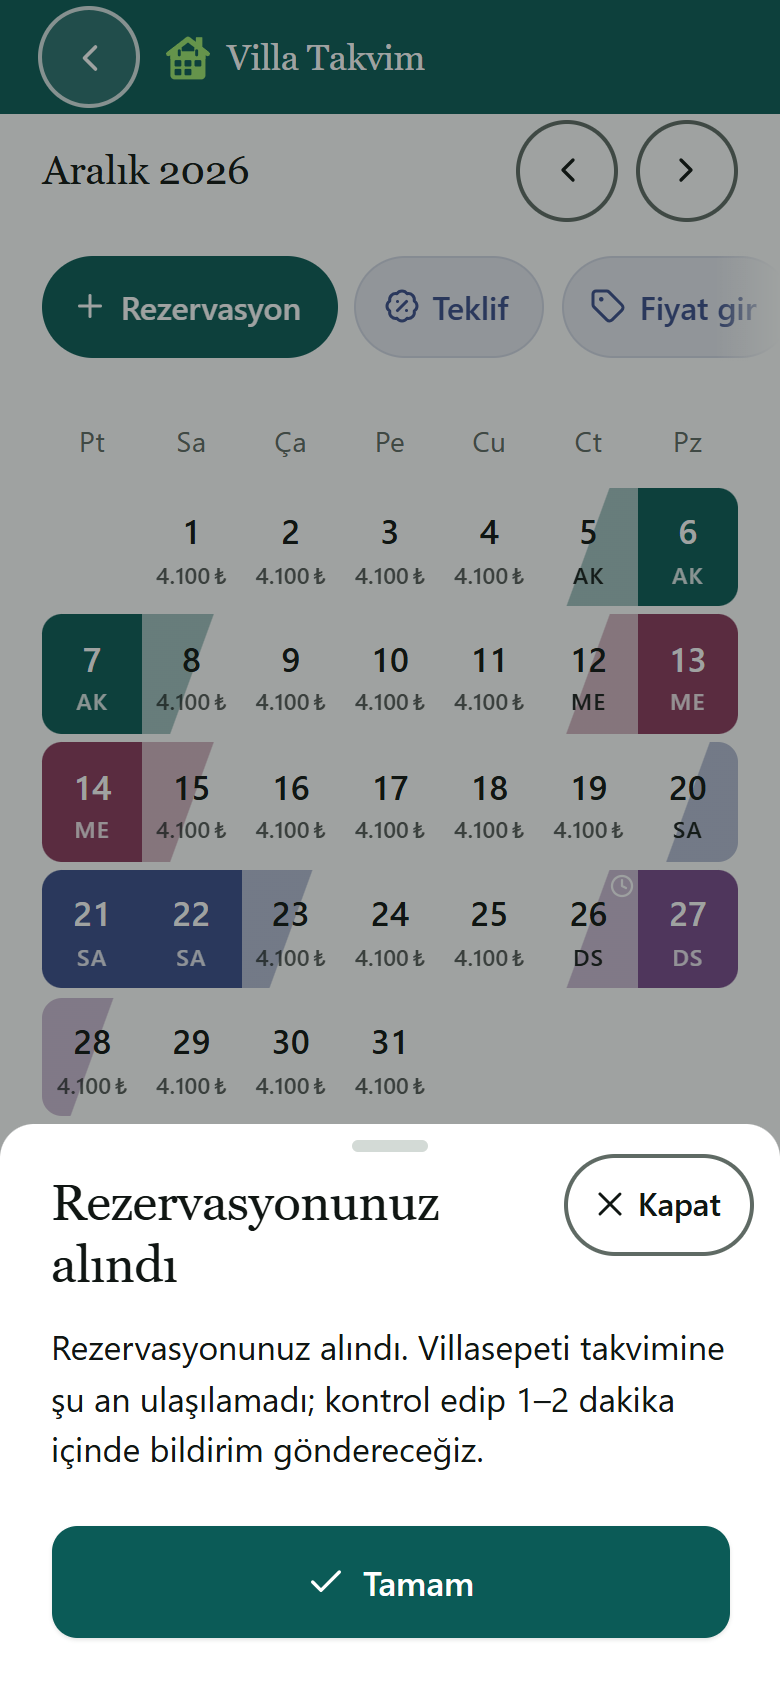
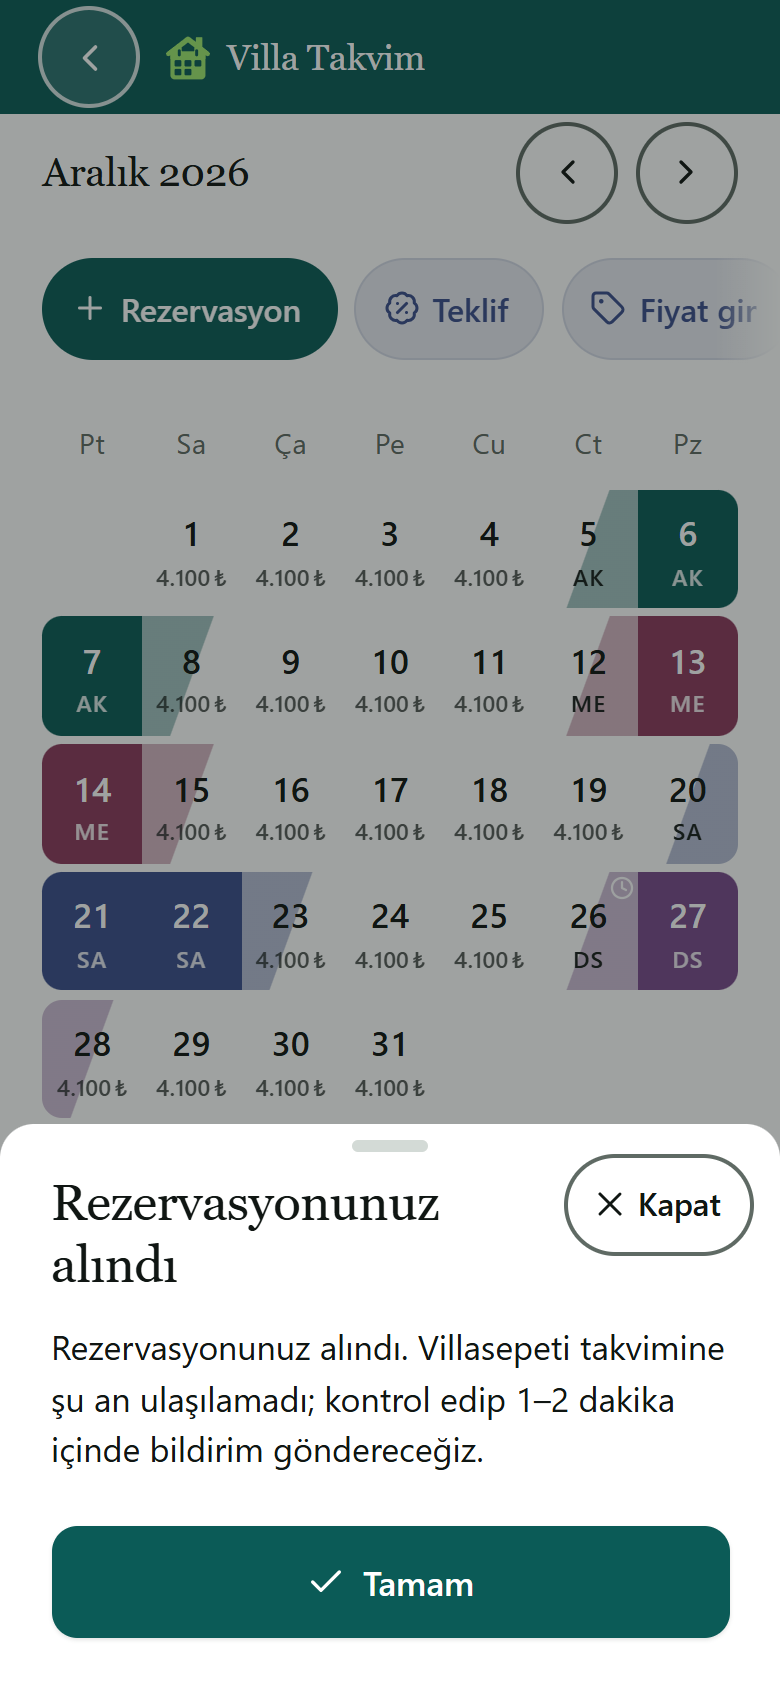
Görev 32.7: çakışma alarmı (çözülmeden susmaz)
- Villalarım'ın en üstünde kapatılamayan kırmızı kart: "Çift satış riski: Villa Salta 17–21 Kasım, hem burada (Ahmet Yılmaz)
  hem Airbnb'de dolu." [Şimdi çöz]
- Çözme ekranı: bizdeki (misafir, tarih, telefon, WhatsApp) ve dışarıdaki (site, tarih) yan yana;
  "Aynı misafir, aynı rezervasyon" (cakisma_coz ayni_rez), "Sorunu çözdüm" (nasıl çözüldüğü zorunlu: başka villa,
  dışarıdaki iptal, bizdeki iptal, diğer + not), "Başka boş villa bul"; bakıcıda yalnız bilgi ve başka villa
- Takvimde çakışan rezervasyon kırmızı çerçeveli, giriş gününde uyarı ikonu; rezervasyon kartında uyarı ikonu
- Ölçüm: cakisma_acildi, cakisma_cozuldu {nasil} (misafir ve tarih yok)
- Bildirimden ?cakisma=… ile çözme ekranı açılır; bildirimleri sunucu gönderir (takvim-esitle zamanlayıcısı)

diff --git a/www/index.html b/www/index.html
@@ -1555,6 +1555,27 @@
   .lj-disK{background:repeating-linear-gradient(135deg,rgba(95,106,100,.18) 0 2px,#F7F9F8 2px 5px)}
   .dtEt{display:inline-flex; align-items:center; margin-left:.375rem; padding:.0625rem .5rem; border-radius:99px; background:var(--soft);
     color:var(--muted); font-size:.8235rem; line-height:1.4; vertical-align:middle; white-space:nowrap}
+  /* 32.7 çakışma alarmı */
+  .cakismaKart{background:#FBEFF2; border:var(--cerceve-kalinlik) solid var(--uyari); border-radius:var(--kose); padding:1rem; margin:0 0 1rem; color:var(--uyari)}
+  .cakismaKart .ckUst{display:flex; gap:.625rem; align-items:flex-start; line-height:1.45; font-size:1.0625rem}
+  .cakismaKart .ckUst svg{flex:none; margin-top:.125rem}
+  .cakismaKart .big{margin-top:.75rem; background:var(--uyari); border-color:var(--uyari)}
+  .cakismaKart .big:active{background:#7E2139}
+  .ckIki{display:grid; grid-template-columns:repeat(auto-fit,minmax(9rem,1fr)); gap:.75rem; margin:1rem 0}
+  .ckKutu{border:var(--cerceve-kalinlik) solid var(--line); border-radius:var(--kose); padding:.875rem; line-height:1.45}
+  .ckKutu .ckLab{font-size:.875rem; color:var(--muted); margin-bottom:.25rem}
+  .ckKutu .ckAd{font-size:1.0625rem}
+  .ckKutu .big{margin-top:.625rem; min-height:3rem}
+  .ckSecenek{display:grid; gap:.5rem; margin:.75rem 0}
+  .ckSecenek button{display:flex; align-items:center; gap:.75rem; width:100%; min-height:3.25rem; padding:.5rem 1rem; text-align:left;
+    border:var(--cerceve-kalinlik) solid var(--cerceve); border-radius:var(--kose); background:#fff; font-size:1rem}
+  .ckSecenek button.on{border-color:var(--ok); background:var(--basili-zemin)}
+  .ckSecenek .ckNokta{flex:none; width:1.25rem; height:1.25rem; border-radius:99px; border:2px solid var(--cerceve)}
+  .ckSecenek button.on .ckNokta{border:6px solid var(--ok)}
+  .cell.cakisma{box-shadow:inset 0 0 0 3px var(--uyari)}
+  .cell .rzUyari{position:absolute; top:1px; left:2px; display:flex; color:#fff; pointer-events:none}
+  .rezKart.cakisma{border-color:var(--uyari) !important; box-shadow:inset 0 0 0 1px var(--uyari)}
+  .rkUyari{display:inline-flex; vertical-align:middle; margin-left:.375rem; color:var(--uyari)}
   /* 32.6 kayıtta anlık kontrol listesi */
   .kontrolListe{display:grid; gap:.25rem; margin:1rem 0 .5rem}
   .kontrolSatir{display:flex; align-items:center; gap:.75rem; min-height:3.25rem; padding:.25rem 0; border-bottom:1px solid var(--line); font-size:1.0625rem}
@@ -1863,6 +1884,8 @@
 
   <!-- ANA EKRAN -->
   <div id="ana" class="sekmeEkran">
+    <!-- 32.7: çift satış riski (kapatılamaz; çözülünce kalkar) -->
+    <div id="cakismaKartlar" class="hide"></div>
     <!-- 18.15: başlığın sağında dolu / boş etiketleri (dar ekranda alta iner); altında yalnız "+ Villa ekle" -->
     <div class="anaBas"><h1>Villalarım</h1><div class="sm muted" id="ozet"></div></div>
     <div class="hapSira hide" id="anaHap" role="toolbar"></div>
@@ -2895,7 +2918,7 @@
   function bildirimYolu(yol){
     var q; try{ q=new URL(yol,location.href).searchParams; }catch(e){ return; }
     var vid=q.get("villa"), gn=q.get("gun"), ck=q.get("cakisma");
-    if(ck && window.cakismaCozEkran){ var c=(DT.cakismalar||[]).filter(function(x){ return x.id===ck; })[0]; if(c){ cakismaCozEkran(c); return; } }
+    if(ck){ var c=(DT.cakismalar||[]).filter(function(x){ return x.id===ck; })[0]; if(c){ cakismaCozEkran(c); return; } }
     var v=vid && S.villalar.filter(function(x){ return x.id===vid; })[0]; if(!v) return;
     ac(v.id);
     if(q.get("ayar")==="takvim" && sahipMi()){ dtEkran(v); return; }
@@ -2908,6 +2931,78 @@
     if(e.data && e.data.tur==="git" && e.data.yol){ if(S.yukleniyor) S.bekleyenYol=e.data.yol; else bildirimYolu(e.data.yol); }
   });
   if(/[?&](villa|cakisma)=/.test(location.search)) S.bekleyenYol=location.search;
+
+  // ---- 32.7 çakışma alarmı: çözülmeden susmaz ----
+  function dtCakisanRez(id){ return (DT.cakismalar||[]).some(function(c){ return c.rezervasyon_id===id && c.durum==="acik"; }); }
+  function cakismaRez(c){
+    var v=S.villalar.filter(function(x){ return x.id===c.villa_id; })[0];
+    return { v:v, r:v && (v.rez||[]).filter(function(x){ return x.id===c.rezervasyon_id; })[0] };
+  }
+  // ilk kez görülen açık çakışma: ölçüm (misafir / tarih yok)
+  var CK_GOR="vt-cakisma-gor";
+  function cakismaKartCiz(){
+    var el=document.getElementById("cakismaKartlar"); if(!el) return;
+    var l=(DT.cakismalar||[]).filter(function(c){ return c.durum==="acik" && cakismaRez(c).v; });
+    var gor={}; try{ gor=JSON.parse(store.get(CK_GOR)||"{}")||{}; }catch(e){ gor={}; }
+    l.forEach(function(c){ if(!gor[c.id]){ gor[c.id]=1; olc("cakisma_acildi"); } });
+    store.set(CK_GOR,JSON.stringify(gor));
+    el.classList.toggle("hide",!l.length);
+    el.innerHTML=l.map(function(c){
+      var x=cakismaRez(c), r=x.r, tarih=aralikYazi({b:r?r.start:c.baslangic, s:r?r.end:c.bitis});
+      return '<div class="cakismaKart" role="alert"><div class="ckUst">'+ikon("uyari-ucgen",{boy:22})+"<span>"+
+        esc(cev("Çift satış riski: "+(x.v.ad||"Villa")+" "+tarih+", hem burada"+(r?" ("+r.guest+")":"")+" hem "+ekDe(c.takvim_ad||cev("başka bir site"))+" dolu."))+"</span></div>"+
+        '<button class="big" data-ik="tik-daire" data-ck="'+esc(c.id)+'">'+esc(cev("Şimdi çöz"))+"</button></div>";
+    }).join("");
+  }
+  document.getElementById("cakismaKartlar").addEventListener("click",function(e){
+    var b=e.target.closest("[data-ck]"); if(!b) return;
+    var c=(DT.cakismalar||[]).filter(function(x){ return x.id===b.dataset.ck; })[0]; if(c) cakismaCozEkran(c);
+  });
+  var CK_NASIL=[["baska_villa","Misafiri başka villaya aldım"],["dis_iptal","Dışarıdaki satışı iptal ettirdim"],["biz_iptal","Bizdekini iptal ettim"],["diger","Diğer"]];
+  function cakismaCozEkran(c){
+    var x=cakismaRez(c), v=x.v, r=x.r; if(!v) return;
+    var sahip0=!!(v.rol==="sahip" || !S.bulut), tel=r && telNormal(r.phone);
+    var bizdeki='<div class="ckKutu"><div class="ckLab">'+esc(cev("Bizdeki"))+'</div><div class="ckAd">'+esc(r?r.guest:cev("Rezervasyon"))+"</div>"+
+      '<div class="sm">'+esc(aralikYazi({b:r?r.start:c.baslangic, s:r?r.end:c.bitis}))+"</div>"+(r && r.phone?'<div class="sm muted">'+esc(r.phone)+"</div>":"")+
+      (tel?'<a class="big renkli is-wa" data-ik="mesaj" href="https://wa.me/'+tel+'" target="_blank" rel="noopener">'+esc(cev("WhatsApp"))+"</a>":"")+"</div>";
+    var disari='<div class="ckKutu"><div class="ckLab">'+esc(cev("Dışarıdaki"))+'</div><div class="ckAd">'+esc(c.takvim_ad||cev("Başka site"))+"</div>"+
+      '<div class="sm">'+esc(aralikYazi({b:c.baslangic, s:c.bitis}))+"</div></div>";
+    perde('<div class="head"><h2>'+esc(cev("Çift satış riski"))+"</h2>"+kapatBtn()+"</div>"+
+      '<div class="sm muted" style="margin:.5rem 0 0;line-height:1.45">'+esc(cev(v.ad+": aynı günler hem burada hem "+ekDe(c.takvim_ad||cev("başka bir site"))+" dolu."))+"</div>"+
+      '<div class="ckIki">'+bizdeki+disari+"</div>"+
+      (sahip0 ? '<button class="big" data-ik="baglanti" id="ckAyni">'+esc(cev("Aynı misafir, aynı rezervasyon"))+"</button>"+
+        '<button class="big renkli is-rez" data-ik="tik-daire" id="ckCozdum" style="margin-top:.5rem">'+esc(cev("Sorunu çözdüm"))+"</button>"+
+        '<div id="ckNasil" class="hide"><div class="eyebrow" style="margin:1.25rem 0 .25rem">'+esc(cev("Nasıl çözüldü?"))+'</div><div class="ckSecenek" id="ckSecenek">'+
+          CK_NASIL.map(function(n){ return '<button type="button" data-n="'+n[0]+'"><span class="ckNokta"></span><span>'+esc(cev(n[1]))+"</span></button>"; }).join("")+"</div>"+
+          '<div class="hide" id="ckNotAlan">'+alan("ck-not",esc(cev("Kısaca nasıl çözüldü?")),"","text","")+"</div>"+
+          '<button class="big" data-ik="tik" id="ckKaydet">'+esc(cev("Çözüldü olarak kaydet"))+"</button></div>"
+        : '<div class="sm muted" style="margin:.5rem 0;line-height:1.45">'+esc(cev("Çözmek için villa sahibine haber verin."))+"</div>")+
+      '<button class="big renkli is-rez" data-ik="arama" id="ckBaska" style="margin-top:.5rem">'+esc(cev("Başka boş villa bul"))+"</button>");
+    var bitti=function(nasil){
+      DT.cakismalar=(DT.cakismalar||[]).filter(function(x){ return x.id!==c.id; });
+      if(r && !dtCakisanRez(r.id) && r.disKontrol==="cakisma") r.disKontrol=undefined;
+      olc("cakisma_cozuldu",{nasil:nasil}); kapat(); tamam(cev("Çakışma çözüldü"));
+      if(!document.getElementById("ana").classList.contains("hide")) cizAna(); else if(aktif()) ciz();
+    };
+    document.getElementById("ckBaska").onclick=function(){
+      kapat(true); MA.bas=r?r.start:c.baslangic; MA.bit=r?r.end:c.bitis; MA.kisi=r?(sayi(r.people)||0):0; MA.son={bas:MA.bas, bit:MA.bit, kisi:MA.kisi}; musaitSonucAc();
+    };
+    if(!sahip0) return;
+    document.getElementById("ckAyni").onclick=function(){ kaydetIs(this,function(){ return VT.dt.cakismaCoz(c.id,"ayni_rez").then(function(){ bitti("ayni_rez"); }); }); };
+    var secili=null;
+    document.getElementById("ckCozdum").onclick=function(){ var n=document.getElementById("ckNasil"); n.classList.remove("hide"); kademeOyna(Array.prototype.slice.call(n.children)); try{ n.scrollIntoView({block:"nearest",behavior:azHareket()?"auto":"smooth"}); }catch(e){} };
+    document.getElementById("ckSecenek").onclick=function(e){
+      var b=e.target.closest("[data-n]"); if(!b) return; secili=b.dataset.n;
+      Array.prototype.forEach.call(this.children,function(x){ x.classList.toggle("on",x===b); x.setAttribute("aria-pressed",String(x===b)); });
+      document.getElementById("ckNotAlan").classList.toggle("hide",secili!=="diger"); titret("secim");
+    };
+    document.getElementById("ckKaydet").onclick=function(){
+      if(!secili){ titret("eksik"); var s=document.getElementById("ckSecenek"); if(s.animate && !azHareket()) s.animate([{transform:"translateX(0)"},{transform:"translateX(-4px)"},{transform:"translateX(4px)"},{transform:"translateX(0)"}],{duration:hiz("titreme")}); return; }
+      var not=secili==="diger" ? document.getElementById("ck-not").value.trim() : cev(CK_NASIL.filter(function(n){ return n[0]===secili; })[0][1]);
+      if(secili==="diger" && not.length<3){ alanHata(document.getElementById("ck-not")); return; }
+      kaydetIs(this,function(){ return VT.dt.cakismaCoz(c.id,"cozuldu",not).then(function(){ bitti(secili); }); });
+    };
+  }
 
   // ---- 32.3 Takvim bağlantıları ekranı ----
   function dtEkran(v){
@@ -3815,6 +3910,7 @@
     if(!S.villalar.length) h=bosHal("ev","Henüz villa eklemediniz.",'<button class="big" data-ik="arti" id="karsilamaEkle">'+esc(cev("Villa ekle"))+"</button>",
       "Villanızı ekleyin, gecelik fiyatları girin, rezervasyonları takvime işleyin.",
       (S.bulut && window.VT && VT.girisli && VT.girisli())?'<button class="bakiciLink" id="karsilamaDavet">'+esc(cev("Bakıcı mısınız? Davet koduyla katılın"))+"</button>":"");
+    cakismaKartCiz();
     if(S.villalar.length && !gorunen) h='<div class="sm muted" style="padding:.5rem 0">'+esc(cev(suz==="dolu"?"Bugün dolu villa yok.":"Bugün boş villa yok."))+"</div>";
     document.getElementById("villalar").innerHTML=h;
     // 18.15: başlığın altında yalnız "+ Villa ekle" (Takvim ve Teklifler hapları kalktı)
@@ -5365,8 +5461,9 @@
     var tarihler=(basladi?'<span class="tarihIk">'+ikon("giris",{boy:15,sinif:"gir"})+esc(kisa(r.start))+"</span> "
                          :'<span class="tarihIk">'+ikon("giris",{boy:15,sinif:"gir"})+esc(kisa(r.start))+'<span class="fiil">'+esc(cev("girecek"))+"</span></span> ")+
                  '<span class="tarihIk">'+ikon("cikis",{boy:15,sinif:"cik"})+esc(kisa(r.end))+'<span class="fiil">'+esc(cev("çıkacak"))+"</span></span>";
-    return '<button class="row rezKart'+(yeniOlabilir?yeniCls(r.id):"")+'" data-id="'+r.id+'">'+harfDaire(r)+
+    return '<button class="row rezKart'+(dtCakisanRez(r.id)?" cakisma":"")+(yeniOlabilir?yeniCls(r.id):"")+'" data-id="'+r.id+'">'+harfDaire(r)+
       '<span class="rkMetin"><span class="rkAd">'+esc(r.guest)+(dtRezKaynak(v,r)?'<span class="dtEt">'+esc(dtRezKaynak(v,r))+"</span>":"")+
+        (dtCakisanRez(r.id)?'<span class="rkUyari" title="'+esc(cev("Çift satış riski"))+'">'+ikon("uyari-ucgen",{boy:15})+"</span>":"")+
         (r.disKontrol==="bekliyor"?'<span class="rkSaat" title="'+esc(cev("Diğer siteler kontrol ediliyor"))+'">'+ikon("saat",{boy:15})+"</span>":"")+'</span><span class="rkAlt">'+tarihler+
       (tutarYok?' <span class="eksikYazi">'+esc(cev("· tutar girilmedi"))+"</span>":"")+
       "</span></span>"+
@@ -5488,7 +5585,10 @@
       var st="background:"+bg+";border-radius:"+(rl?"10px":"0")+" "+(rr?"10px":"0")+" "+(rr?"10px":"0")+" "+(rl?"10px":"0");
       var fi=paraGorur()?v.fiyatlar[k]:0;
       // dolu günde (akşamı dolu) fiyat yerine misafirin baş harfleri
-      var saatIk = (ak && ak.start===k && ak.disKontrol==="bekliyor") ? '<span class="rzSaat" aria-label="'+esc(cev("Diğer siteler kontrol ediliyor"))+'">'+ikon("saat",{boy:12,kalinlik:2.25})+"</span>" : "";
+      var ckR=(ak && dtCakisanRez(ak.id)) || (sa && dtCakisanRez(sa.id));
+      if(ckR) cls+=" cakisma";
+      var ckIk = (ak && ak.start===k && dtCakisanRez(ak.id)) ? '<span class="rzUyari">'+ikon("uyari-ucgen",{boy:12,kalinlik:2.25})+"</span>" : "";
+      var saatIk = ckIk+((ak && ak.start===k && ak.disKontrol==="bekliyor") ? '<span class="rzSaat" aria-label="'+esc(cev("Diğer siteler kontrol ediliyor"))+'">'+ikon("saat",{boy:12,kalinlik:2.25})+"</span>" : "");
       var etiket = saatIk+(ak ? '<span class="fy bh">'+esc(basHarf(ak.guest))+"</span>"
                  : (disB ? '<span class="fy disAd">'+((rl||k===disB.bas)?esc(disB.tur==="kapali"?cev("kapalı"):dtTakvimAd(v.id,disB.takvim)):"")+"</span>"
                  : '<span class="fy">'+(fi?kisaFiyat(fi):"")+"</span>"));

diff --git a/www/dil.js b/www/dil.js
@@ -865,6 +865,23 @@
     "Aboneliği başlat":"Start subscription",
     "Bekleyin…":"Please wait…",
     "Gizlilik metnini açın":"Open the privacy notice",
+    "Şimdi çöz":"Resolve now",
+    "Çift satış riski":"Double booking risk",
+    "Bizdeki":"Ours",
+    "Dışarıdaki":"On the other site",
+    "Başka site":"Other site",
+    "WhatsApp":"WhatsApp",
+    "Aynı misafir, aynı rezervasyon":"Same guest, same reservation",
+    "Sorunu çözdüm":"I resolved it",
+    "Nasıl çözüldü?":"How was it resolved?",
+    "Misafiri başka villaya aldım":"I moved the guest to another villa",
+    "Dışarıdaki satışı iptal ettirdim":"I had the other sale cancelled",
+    "Bizdekini iptal ettim":"I cancelled ours",
+    "Diğer":"Other",
+    "Kısaca nasıl çözüldü?":"Briefly, how was it resolved?",
+    "Çözüldü olarak kaydet":"Save as resolved",
+    "Çözmek için villa sahibine haber verin.":"Let the villa owner know to resolve it.",
+    "Çakışma çözüldü":"Conflict resolved",
     "Takvimler kontrol ediliyor…":"Checking calendars…",
     "kontrol ediliyor":"checking",
     "müsait":"available",
@@ -1252,6 +1269,9 @@
     [/^([\d.,]+ ₺) alınacak$/, "$1 to collect"],
     [/^Bağlandı: önümüzdeki 12 ayda (\d+) dolu gün bulundu\.$/, "Linked: $1 booked days found in the next 12 months."],
     [/^(\d+) dk önce$/, "$1 min ago"],
+    [/^Çift satış riski: (.+), hem burada \((.+)\) hem (.+)'[dt][ae] dolu\.$/, "Double booking risk: $1, booked both here ($2) and on $3."],
+    [/^Çift satış riski: (.+), hem burada hem (.+)'[dt][ae] dolu\.$/, "Double booking risk: $1, booked both here and on $2."],
+    [/^(.+): aynı günler hem burada hem (.+)'[dt][ae] dolu\.$/, "$1: the same days are booked here and on $2."],
     [/^Kaydedilemedi: (.+) (.+)'[dt][ae] dolu\.$/, "Could not save: $1 is booked on $2."],
     [/^Bu günler (.+)'[dt][ae] kapalı görünüyor\. Siz kapatmış olabilirsiniz\. Yine de kaydedilsin mi\?$/, "These days look closed on $1. You may have closed them yourself. Save anyway?"],
     [/^(.+)'[dt][ae] aç$/, "Open $1"],

diff --git a/www/olcum.js b/www/olcum.js
@@ -29,6 +29,7 @@
     yazi_boyutu: { deger: ["normal", "buyuk", "cokbuyuk"] }, dil: { deger: ["tr", "en"] },
     bildirim_izni: { verildi: "b" },
     ilk_an: { tur: ["rez", "villa", "teklif"] },
+    cakisma_acildi: {}, cakisma_cozuldu: { nasil: ["ayni_rez", "baska_villa", "dis_iptal", "biz_iptal", "diger"] },
     pro_goster: {}, pro_satin_al: { sonuc: ["tamam", "iptal", "hata"] }, pro_geri_yukle: { sonuc: ["tamam", "yok", "hata"] },
     hata: { tur: "hataTur", yer: "hataYer" }
   };

diff --git a/www/sw.js b/www/sw.js
@@ -3,7 +3,7 @@
 
 // Sürüm: her yayında artırılır. Dosya değişince telefonlar yeni servisi kurar;
 // açılışta eski sürümlerden kalan önbellekler silinir, böylece eski ekran kalmaz.
-var SURUM = "vt-2026-11-18-gorev32f";
+var SURUM = "vt-2026-11-18-gorev32g";
 
 self.addEventListener("install", function (e) {
   self.skipWaiting();
